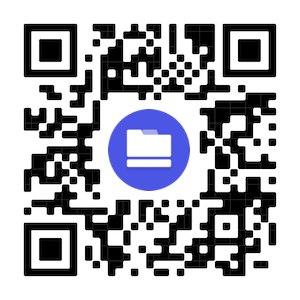
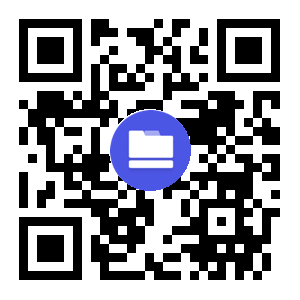
fix: QR code now points to https://drop.jemaos.com
- regenerate the QR image with the correct JemaDrop URL, keeping the
  original design (300x300, blue circle logo, high error correction)
- bump asset/SW cache versions to v1.2.1 so existing clients pick up
  the new image (cache-first service worker)

diff --git a/client/index.html b/client/index.html
@@ -15,7 +15,7 @@
     <link rel="icon" sizes="32x32" href="images/favicon.png">
     <link rel="apple-touch-icon" sizes="180x180" href="images/apple-touch-icon.png">
     <!-- Resources -->
-    <link rel="stylesheet" href="styles.css?v1.2.0">
+    <link rel="stylesheet" href="styles.css?v1.2.1">
     <link rel="manifest" href="manifest.json">
 </head>
 
@@ -167,8 +167,8 @@
         </symbol>
     </svg>
     <!-- Scripts -->
-    <script src="scripts/network.js?v1.2.0"></script>
-    <script src="scripts/ui.js?v1.2.0"></script>
+    <script src="scripts/network.js?v1.2.1"></script>
+    <script src="scripts/ui.js?v1.2.1"></script>
     <!-- Sounds -->
     <audio id="dropsound" autobuffer="true">
         <source src="sounds/drop.mp3" type="audio/mpeg">

diff --git a/client/service-worker.js b/client/service-worker.js
@@ -1,4 +1,4 @@
-const CACHE_NAME = 'JemaDrop-v1.2.0';
+const CACHE_NAME = 'JemaDrop-v1.2.1';
 const urlsToCache = [
     '/',
     '/styles.css',
